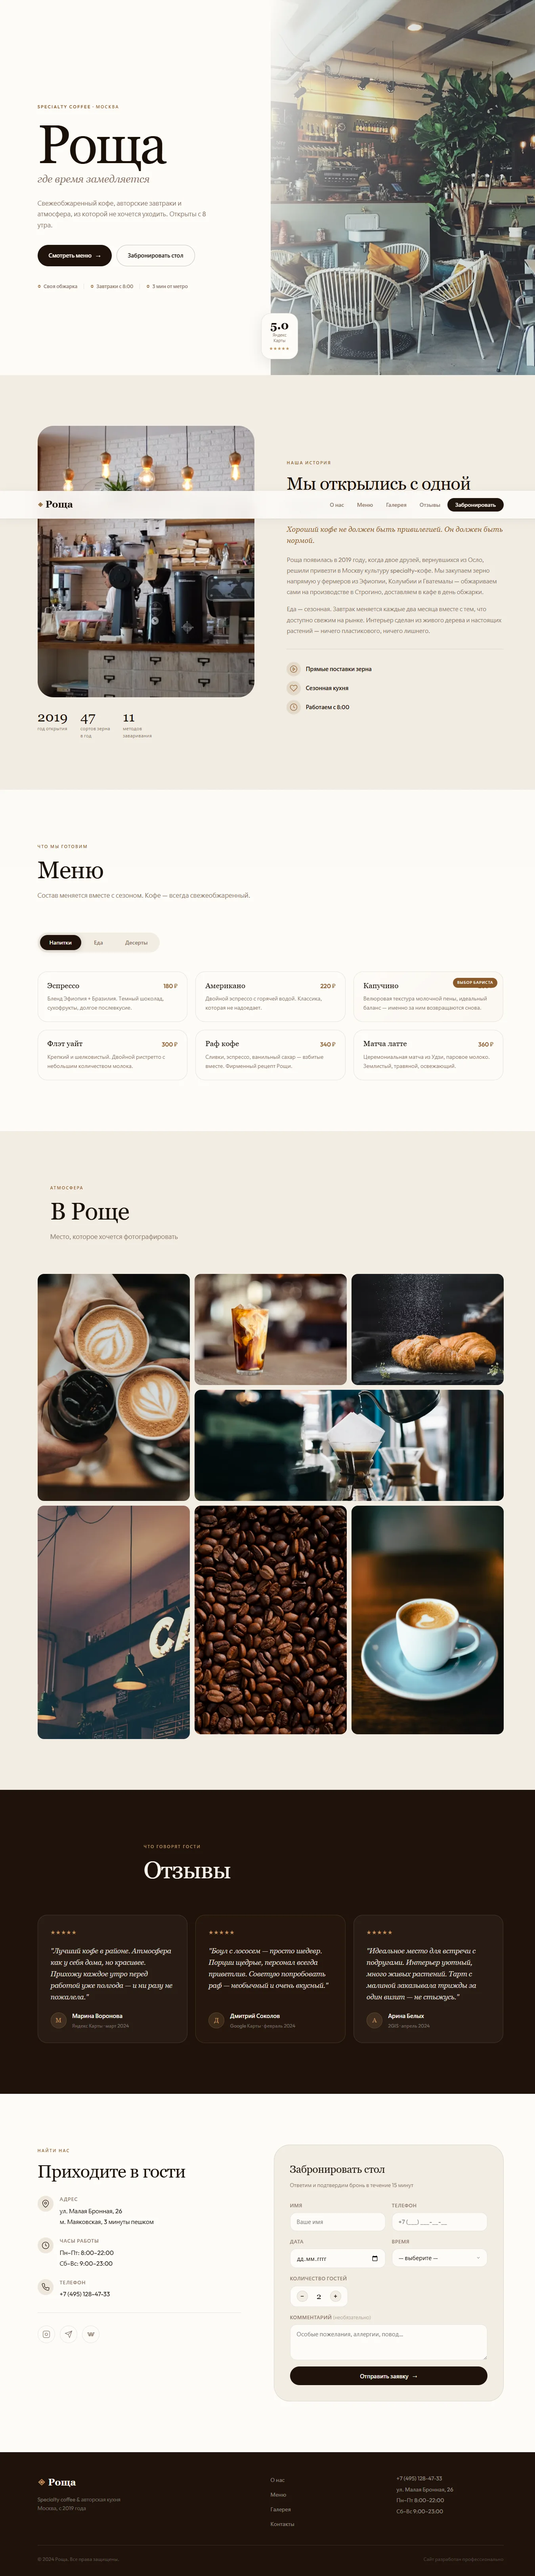
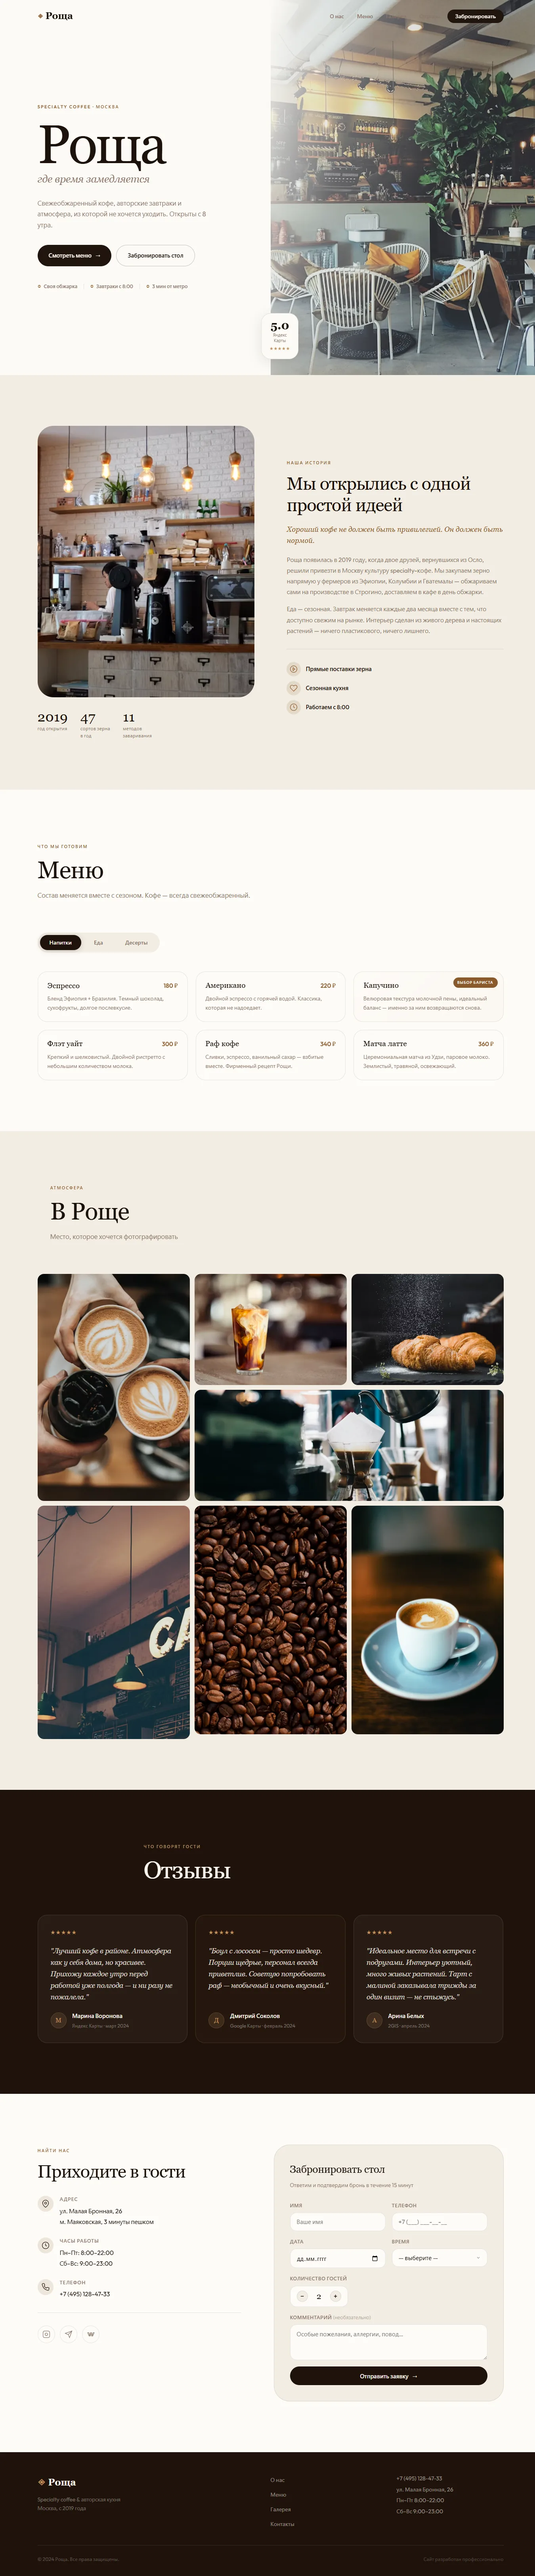
Fixes: replace broken Rosha screenshot, AI mockup mobile layout, timeline beam one-shot (no scroll-follow), animated underline on works heading

Changed region(s): [[0.0622, 0.1867, 0.4978, 0.2178], [0.84, 0.1867, 0.9333, 0.2178], [0.84, 0.0, 0.9333, 0.0311]]

diff --git a/components/ui/case-mockups.tsx b/components/ui/case-mockups.tsx
@@ -175,16 +175,16 @@ function ChatPlace({
     <motion.div
       variants={item}
       className={
-        "rounded-2xl border p-4 transition-colors " +
+        "rounded-2xl border p-3 transition-colors sm:p-4 " +
         (highlighted
           ? "border-brand/35 bg-brand/[0.04] shadow-[0_18px_40px_-30px_oklch(0.48_0.16_256/0.5)]"
           : "border-border bg-bg")
       }
     >
-      <div className="flex items-center gap-2">
+      <div className="flex flex-wrap items-center gap-x-2 gap-y-1">
         <span
           className={
-            "inline-flex items-center gap-1 rounded-full px-2.5 py-0.5 text-[11px] font-bold uppercase tracking-[0.08em] " +
+            "inline-flex shrink-0 items-center gap-1 rounded-full px-2.5 py-0.5 text-[11px] font-bold uppercase tracking-[0.08em] " +
             (badgeTone === "brand"
               ? "bg-brand text-white"
               : "bg-surface text-muted")
@@ -193,9 +193,8 @@ function ChatPlace({
           {badgeTone === "brand" && <Star className="size-3" fill="currentColor" />}
           {badge}
         </span>
-        <span className="text-[12px] text-faint">·</span>
         <span className="inline-flex items-center gap-1 text-[12px] text-faint">
-          <MapPin className="size-3" />
+          <MapPin className="size-3 shrink-0" />
           {meta}
         </span>
       </div>
@@ -223,7 +222,7 @@ export function AiMockup() {
       variants={stagger}
       initial="hidden"
       animate="show"
-      className="rounded-2xl border border-border bg-gradient-to-b from-brand/[0.04] to-bg p-5 md:p-7"
+      className="rounded-2xl border border-border bg-gradient-to-b from-brand/[0.04] to-bg p-3 sm:p-5 md:p-7"
     >
       {/* ChatGPT-окно */}
       <motion.div
@@ -246,7 +245,7 @@ export function AiMockup() {
         </div>
 
         {/* Тело чата */}
-        <div className="space-y-5 px-5 py-5 md:px-7 md:py-6">
+        <div className="space-y-5 px-3 py-4 sm:px-5 sm:py-5 md:px-7 md:py-6">
           {/* Сообщение пользователя */}
           <div className="flex justify-end">
             <span className="max-w-[85%] rounded-[20px_20px_6px_20px] bg-fg px-4 py-2.5 text-[14.5px] font-medium text-bg">
@@ -255,9 +254,9 @@ export function AiMockup() {
           </div>
 
           {/* Ответ ChatGPT */}
-          <div className="flex gap-3.5">
-            <span className="inline-flex size-9 shrink-0 items-center justify-center rounded-full bg-fg text-bg">
-              <ChatGptMark className="size-5" />
+          <div className="flex gap-2.5 sm:gap-3.5">
+            <span className="inline-flex size-7 shrink-0 items-center justify-center rounded-full bg-fg text-bg sm:size-9">
+              <ChatGptMark className="size-4 sm:size-5" />
             </span>
             <div className="min-w-0 flex-1">
               <p className="text-[14.5px] leading-[1.62] text-fg">

diff --git a/components/ui/process-timeline.tsx b/components/ui/process-timeline.tsx
@@ -8,8 +8,6 @@ import {
   useInView,
   useMotionValue,
   useMotionValueEvent,
-  useScroll,
-  useSpring,
   useTransform,
 } from "motion/react";
 import type { Step } from "@/lib/data/services";
@@ -220,16 +218,9 @@ function MobileTimeline({ steps }: { steps: Step[] }) {
   const geomRef = useRef({ x: 0, top: 0, h: 0 });
   const [rail, setRail] = useState({ x: 0, top: 0, h: 0 });
 
-  const { scrollYProgress } = useScroll({
-    target: wrapRef,
-    offset: ["start 0.85", "end 0.55"],
-  });
-  // Пружина = плавность: луч не дёргается за скроллом, а мягко догоняет.
-  const smooth = useSpring(scrollYProgress, {
-    stiffness: 70,
-    damping: 24,
-    restDelta: 0.0005,
-  });
+  // Разовый проезд вниз при попадании в экран — луч НЕ следует за скроллом.
+  const progress = useMotionValue(0);
+  const inView = useInView(wrapRef, { once: true, amount: 0.3 });
   const [reached, setReached] = useState(0);
 
   useLayoutEffect(() => {
@@ -260,10 +251,10 @@ function MobileTimeline({ steps }: { steps: Step[] }) {
   }, [steps.length]);
 
   const clamp = (v: number) => (v < 0 ? 0 : v > 1 ? 1 : v);
-  const fillH = useTransform(smooth, (v) => geomRef.current.h * clamp(v));
-  const headTop = useTransform(smooth, (v) => geomRef.current.top + geomRef.current.h * clamp(v));
+  const fillH = useTransform(progress, (v) => geomRef.current.h * clamp(v));
+  const headTop = useTransform(progress, (v) => geomRef.current.top + geomRef.current.h * clamp(v));
 
-  useMotionValueEvent(smooth, "change", (v) => {
+  useMotionValueEvent(progress, "change", (v) => {
     const n = steps.length;
     let r = 0;
     for (let i = 0; i < n; i++) if (v >= i / (n - 1) - 0.001) r = i + 1;
@@ -271,6 +262,13 @@ function MobileTimeline({ steps }: { steps: Step[] }) {
   });
 
   const ready = rail.h > 0;
+
+  // Луч едет вниз один раз, когда секция появилась.
+  useEffect(() => {
+    if (!inView || !ready) return;
+    const controls = animate(progress, 1, { duration: 2.1, ease: [0.45, 0, 0.15, 1] });
+    return () => controls.stop();
+  }, [inView, ready, progress]);
 
   return (
     <MotionConfig reducedMotion="never">

diff --git a/components/ui/underline-word.tsx b/components/ui/underline-word.tsx
@@ -1,0 +1,31 @@
+"use client";
+
+import { motion, MotionConfig } from "motion/react";
+import type { ReactNode } from "react";
+
+// Слово с подчёркиванием, которое прочерчивается слева направо при появлении.
+export function UnderlineWord({
+  children,
+  className,
+  delay = 0.35,
+}: {
+  children: ReactNode;
+  className?: string;
+  delay?: number;
+}) {
+  return (
+    <MotionConfig reducedMotion="never">
+      <span className={`relative inline-block ${className ?? ""}`}>
+        {children}
+        <motion.span
+          aria-hidden
+          className="absolute -bottom-0.5 left-0 h-[0.09em] w-full origin-left rounded-full bg-brand/45"
+          initial={{ scaleX: 0 }}
+          whileInView={{ scaleX: 1 }}
+          viewport={{ once: true, amount: 0.8 }}
+          transition={{ duration: 0.7, delay, ease: [0.22, 1, 0.36, 1] }}
+        />
+      </span>
+    </MotionConfig>
+  );
+}

diff --git a/components/site/works.tsx b/components/site/works.tsx
@@ -1,5 +1,6 @@
 import { CasesGrid } from "@/components/ui/cases-grid";
 import { Reveal } from "@/components/ui/reveal";
+import { UnderlineWord } from "@/components/ui/underline-word";
 import { cases, categories } from "@/lib/data/works";
 
 export function Works() {
@@ -10,7 +11,7 @@ export function Works() {
           <h2 className="font-display text-4xl font-extrabold leading-[1.05] tracking-tight text-fg md:text-6xl">
             Сайты, которые
             <br />
-            <span className="text-brand">работают</span> на бизнес
+            <UnderlineWord className="text-brand">работают</UnderlineWord> на бизнес
           </h2>
           <p className="mx-auto mt-5 max-w-2xl text-pretty text-base leading-relaxed text-muted sm:text-lg">
             Несколько кейсов под разные ниши. Нажмите на проект — покажу, что это

diff --git a/components/ui/cases-grid.tsx b/components/ui/cases-grid.tsx
@@ -236,7 +236,7 @@ export function CasesGrid({
                   </motion.div>
                 </div>
 
-                <div className="space-y-6 border-t border-border bg-surface/40 px-7 py-8 md:px-11 md:py-10">
+                <div className="space-y-6 border-t border-border bg-surface/40 px-4 py-6 sm:px-7 sm:py-8 md:px-11 md:py-10">
                   {active.mockup ? (
                     <motion.div variants={modalItem}>
                       {active.mockup === "seo" ? <SeoMockup /> : <AiMockup />}
